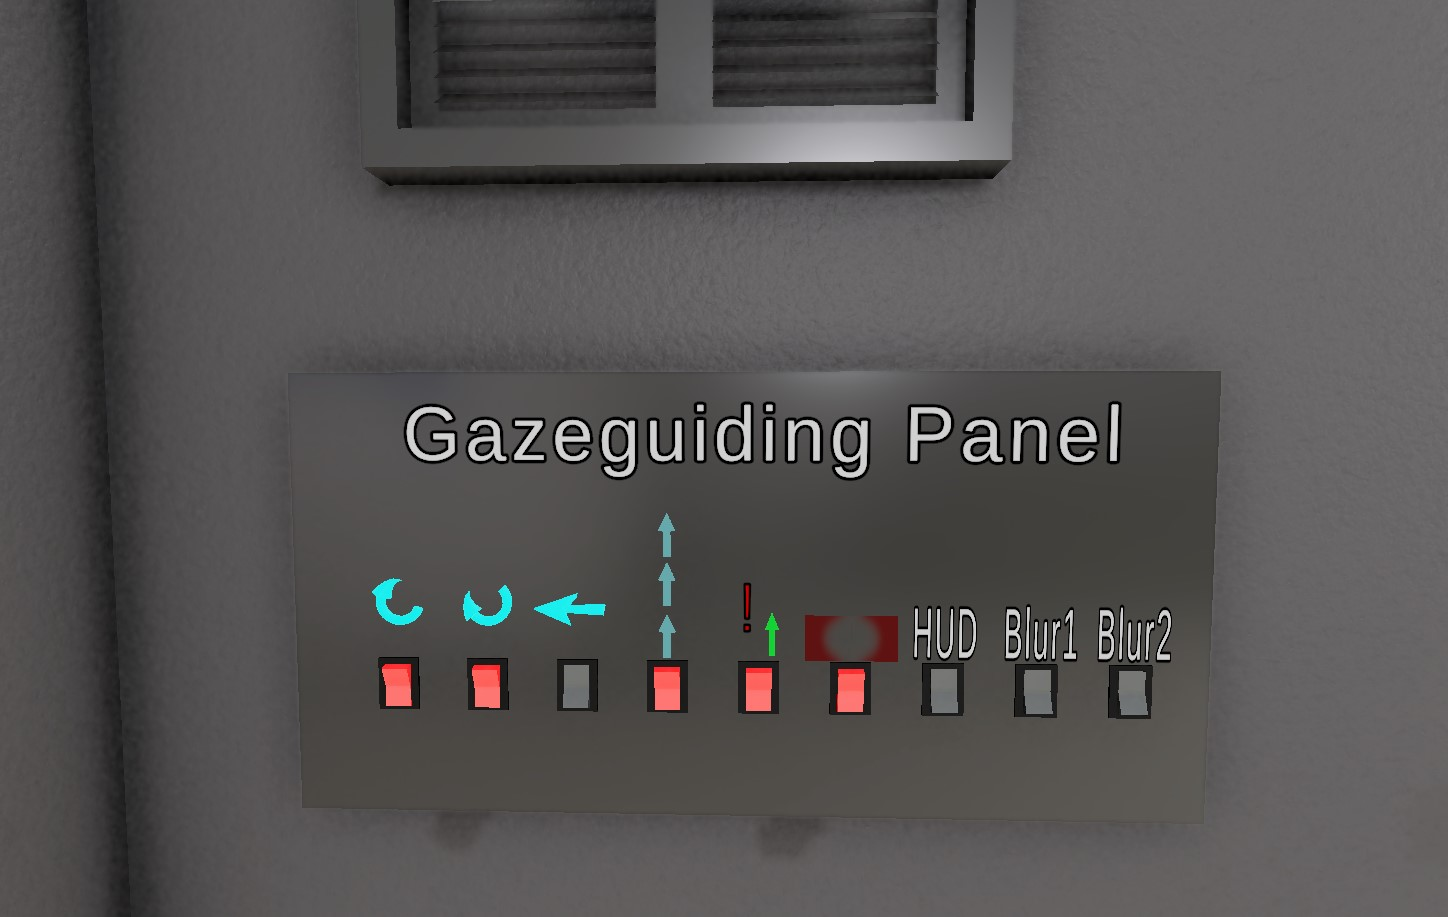
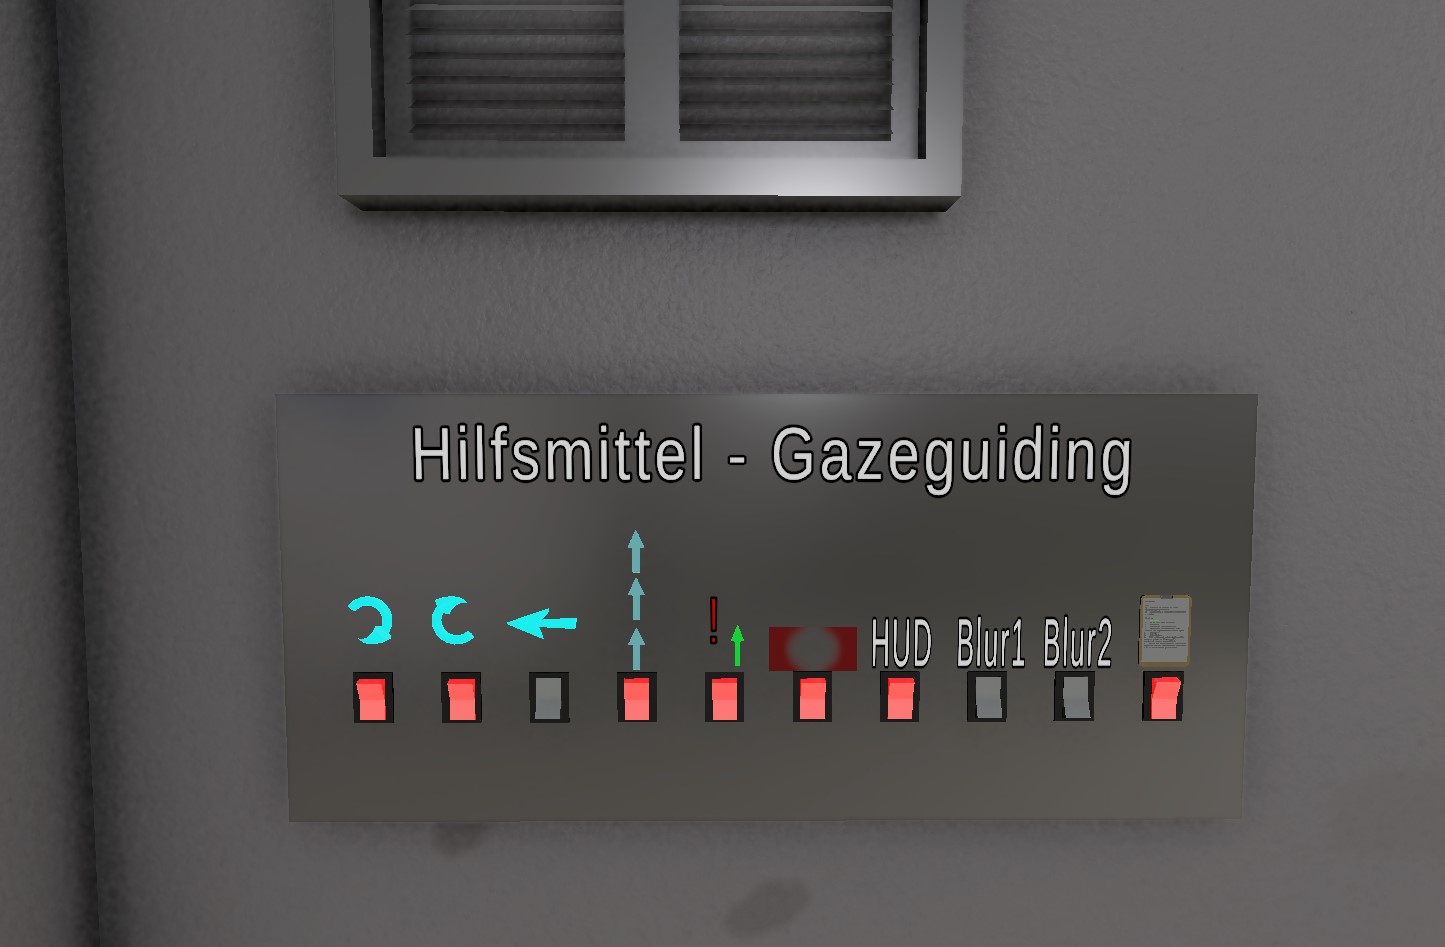
Update Docs

diff --git a/README.md b/README.md
@@ -16,45 +16,52 @@ Nebenprojekt [Nuclear Power Plant Simulator - REST API](https://github.com/RoMan
 
 Das Projekt setzt sich aus folgenden Komponenten zusammen:
 
-`NPP Client/Server`: Server und Client, welche die zentrale Aufgabe der Datenbereitstellung und -verarbeitung bezüglich 
+### `NPP Client/Server`
+Server und Client, welche die zentrale Aufgabe der Datenbereitstellung und -verarbeitung bezüglich 
 der Reaktorsimulation übernehmen. Der Server stellt die Daten der Reaktorsimulation über eine REST API bereit. Ein 
 entsprechender Client stellt alle notwendigen Funktionen zur Verfügung, welche der Steuerung bzw. Überwachung des Reaktors
 dienen und über die _Simulationsumgebung_ zugänglich sind. Siehe [Nuclear Power Plant Simulator - REST API](https://github.com/RoManN0331/Nuclear-Power-Plant-Simulator-REST-API) für
 eine detaillierte Beschreibung der REST API.
 <hr>
 
-`Animator`: Das Zustandsmodell des Reaktors wird durch den Unity Animator modelliert. Der Animator ermöglicht das Erfassen
+### `Animator`
+Das Zustandsmodell des Reaktors wird durch den Unity Animator modelliert. Der Animator ermöglicht das Erfassen
 von Zuständen und Zustandsübergängen. Hieraus kann eine klare Struktur der erlaubten Zustände abgeleitet werden welche 
 zusätzlich durch Verknüpfen von `Behaviour`-Scripts für die Steuerung der Gaze Guiding Elemente genutzt werden.
 <hr>
 
-`Gaze Guiding`: Dieses Projekt implementiert verschiedene Gaze Guiding Elemente, welche dem Nutzer bei der Bedienung des
+### `Gaze Guiding`
+Dieses Projekt implementiert verschiedene Gaze Guiding Elemente sowie Hilfsmittel, welche dem Nutzer bei der Bedienung des
 Reaktors unterstützen sollen. Gaze Guiding kann auf unterschiedliche Weise eingesetzt werden, um eine Reaktion des Nutzers
-herbeizuführen und dabei Helfen, in komplexen Situationen einen Überblick zu behalten. Dabei werden unterschiedliche 
+herbeizuführen und dabei helfen, in komplexen Situationen einen Überblick zu behalten. Dabei werden unterschiedliche 
 Wirkungsmechanismen eingesetzt, um die Aufmerksamkeit des Nutzers zu lenken. Die folgende Tabelle liefert einen Überblick
 der implementierten Gaze Guiding Elemente.
 
-| Bezeichnung                                 | Art | Beschreibung                                                                                                                                                                                           |
-|---------------------------------------------|-----|--------------------------------------------------------------------------------------------------------------------------------------------------------------------------------------------------------|
-| `Rotationspfeile` (Kontinuierlich, Diskret) |     | Typischerweise an Drehreglern positioniert. Signalisiert, dass eine Aktion an dem entsprechenden Regler nötig ist und gibt die Drehrichtung an. Nur sichtbar in umittelbarer Nähe.                     |
-| `3D Pfeil`                                  |     | Dreidimensionaler Pfeil, befindet sich zu jeder Zeit im Sichtfeld des Nutzers und deutet in die Richtung der auszuführenden Aktion.                                                                    |
-| `Path Pfeile`                               |     | Ein oder mehrere Pfeile, welche einen Weg (Luftlinie) zu ausführbaren Aktionen abbilden.                                                                                                               |
-| `Anzeige Indikatoren`                       |     | An Anzeigen angebrachten visuelle Indikatoren, bestehend aus einem roten Ausrufezeichen (Signalisiert eine erforderliche Aktion) und grünem Pfeil (Verdeutlicht Ausführung der erforderlichen Aktion). |
-| `Direction Cues`                            |     | Rote Randerscheinungen welche aktiv werden, sobald die Blickrichtung von der eigentlichen position der erforderlichen Aktion abweicht.                                                                 |
-| `Head Up Display`                           |     | Bildet aktuelle Aufgabe als Text in Form eines HUDs oberhalb der Blickrichtung ab.                                                                                                                     |
-| `Clipboard`                                 |     | Heben aktuelle Aufgabe in einem auffälligen Farbton von den restlichen Schritten des Clipboards hervor.                                                                                                |
-| `Objekt Blur`                               |     | Blenden derzeit irrelevante Anzeigen und Regler vollständig aus.                                                                                                                                       |
-| `Direktionaler Blur`                        |     |                                                                                                                                                                                                        |
+| Bezeichnung                                 | Art                                        | Beschreibung                                                                                                                                                                                           |
+|---------------------------------------------|--------------------------------------------|--------------------------------------------------------------------------------------------------------------------------------------------------------------------------------------------------------|
+| `Rotationspfeile` (Kontinuierlich, Diskret) | <code style="color : aqua">HM</code>       | Typischerweise an Drehreglern positioniert. Signalisiert, dass eine Aktion an dem entsprechenden Regler nötig ist und gibt die Drehrichtung an. Nur sichtbar in unmittelbarer Nähe.                     |
+| `3D Pfeil`                                  | <code style="color : darkorange">GG</code> | Dreidimensionaler Pfeil, befindet sich zu jeder Zeit im Sichtfeld des Nutzers und deutet in die Richtung der auszuführenden Aktion.                                                                    |
+| `Path Pfeile`                               | <code style="color : darkorange">GG</code> | Ein oder mehrere Pfeile, welche einen Weg (Luftlinie) zu ausführbaren Aktionen abbilden.                                                                                                               |
+| `Anzeige Indikatoren`                       | <code style="color : aqua">HM</code>       | An Anzeigen angebrachten visuelle Indikatoren, bestehend aus einem roten Ausrufezeichen (Signalisiert eine erforderliche Aktion) und grünem Pfeil (Verdeutlicht Ausführung der erforderlichen Aktion). |
+| `Direction Cues`                            | <code style="color : darkorange">GG</code> | Rote Randerscheinungen welche aktiv werden, sobald die Blickrichtung von der eigentlichen position der erforderlichen Aktion abweicht.                                                                 |
+| `Head Up Display`                           | <code style="color : darkorange">GG</code> | Bildet aktuelle Aufgabe als Text in Form eines HUDs oberhalb der Blickrichtung ab.                                                                                                                     |
+| `Clipboard`                                 | <code style="color : aqua">HM</code>       | Heben aktuelle Aufgabe in einem auffälligen Farbton von den restlichen Schritten des Clipboards hervor.                                                                                                |
+| `Objekt Blur`                               | <code style="color : aqua">HM</code>       | Blenden für die auszuführende Aktion irrelevante Anzeigen und Regler vollständig aus.                                                                                                                  |
+| `Direktionaler Blur`                        | <code style="color : darkorange">GG</code> | Unschärfe Effekt für Anzeigen und Regler, welche für die auszuführende Aktion nicht relevant sind.                                                                                                     |
+- <code style="color : aqua">HM</code> - Hilfsmittel
+- <code style="color : darkorange">GG</code> - Gaze Guiding
 
-Gaze Guiding Elemente können anhand eines `Gaze Guiding Panels` aktiviert, bzw. deaktiviert werden.
+
+Gaze Guiding Elemente können anhand eines `Hilfsmittel & Gaze Guiding Panels` aktiviert, bzw. deaktiviert werden.
 Zusätzlich sind [Bilder](Docs/ggimages.md) zu den oben genannten Gaze Guiding Elementen zu finden.
 
 <hr>
 
-`Simulationsumgebung`: Die Simulationsumgebung ist die interagierbare Schnitstelle zur Reaktorsimulation. Hierbei handelt
+### `Simulationsumgebung`
+Die Simulationsumgebung ist die interagierbare Schnittstelle zur Reaktorsimulation. Hierbei handelt
 es sich um einen virtuellen Raum einer Reaktorleitwarte, welcher eine zentrale Mittelkonsole mit verschiedenen Reglern
-und Anzeigen zur Steuerung des Reaktors bietet. Zusäzlich stehen Klemmbretter mit Anweisungen für drei Szenarien
-(_Hochfahren_, _Herunterfahren_, _Notfallabschaltung_), sowie ein _Gaze Guiding Panel_ zur Verfügung.
+und Anzeigen zur Steuerung des Reaktors bietet. Zusätzlich stehen Klemmbretter mit Anweisungen für drei Szenarien
+(_Hochfahren_, _Herunterfahren_, _Notfallabschaltung_), sowie ein _Hilfsmittel & Gaze Guiding Panel_ zur Verfügung.
 
 
 ## Dependencies

diff --git a/Docs/ggimages.md b/Docs/ggimages.md
@@ -1,4 +1,4 @@
-# Gaze Guiding Elemente
+# Unterstützende Elemente und Gaze Guiding
 
 - [Rotationspfeile](#rotationspfeile)
 - [3D Pfeil](#3d-pfeil)
@@ -10,6 +10,9 @@
 - [Blur Effekte](#objekt-blur)
 
 <hr>
+
+## Hilfsmittel und Gaze Guiding Panel
+<img src="gg_panel.jpg" alt="Hilfsmittel und Gaze Guiding Panel"/>
 
 ## Rotationspfeile
 <img src="gg_spin_arrow.jpg" alt="Rotationspfeile"/>
